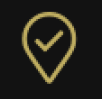
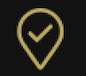
footer fixed

Changed region(s): [[0.186, 0.1053, 0.7674, 0.9211], [0.6279, 0.1316, 0.6744, 0.2105]]

diff --git a/src/styles/Footer.scss b/src/styles/Footer.scss
@@ -18,15 +18,14 @@ width: 30%;
 }
 
 .info-div {
-height: 120px;
-margin-top: -100px;
+    margin-top: -55px;
 }
 
 .info-pic {
-    width: 80px;
+    width: 90px;
 }
 
 .when-pic {
-    width: 55px;
-    margin-bottom: 10px;
+    width: 60px;
+    margin-bottom: 5px;
 }
